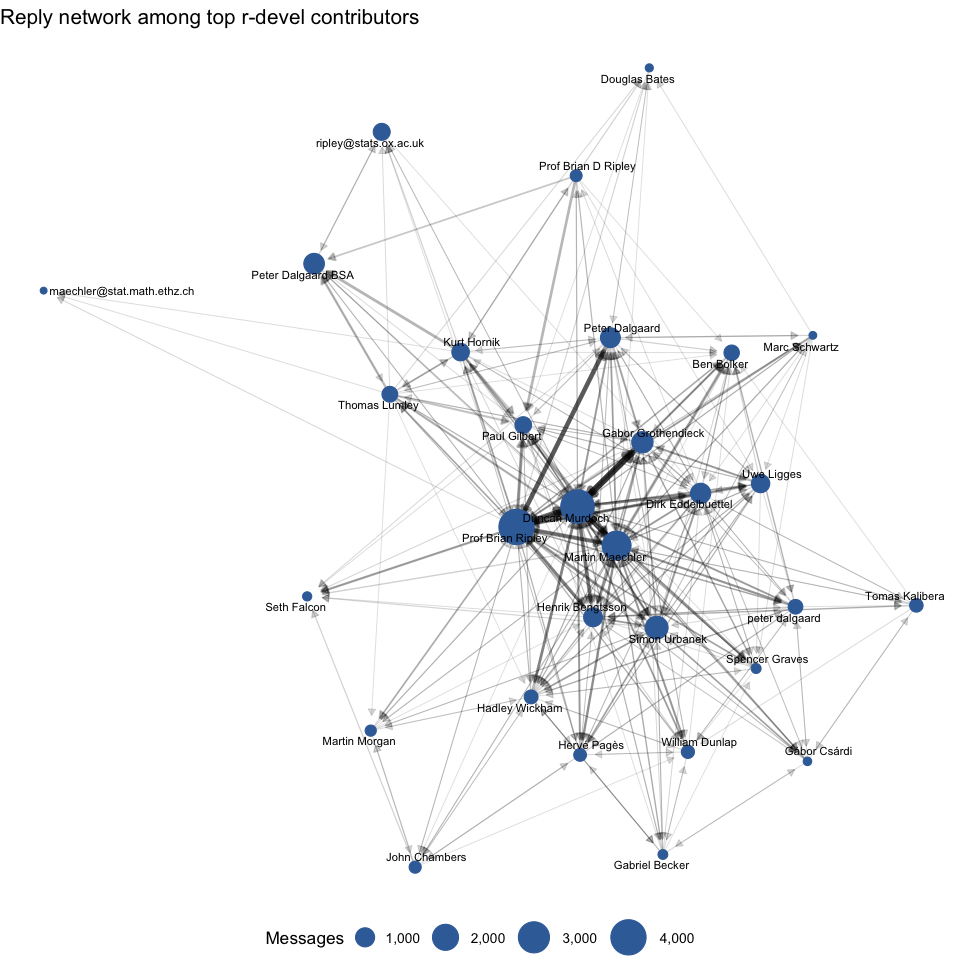
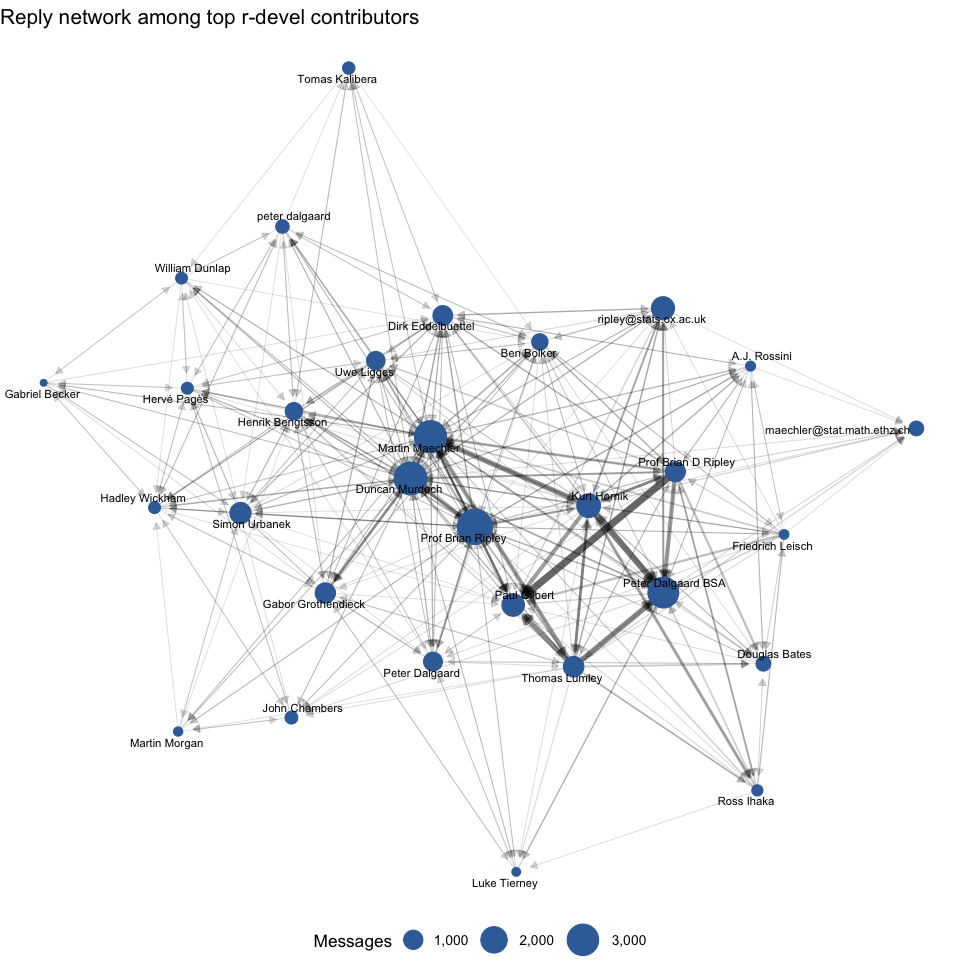
refactor: slim down README, add reply network, update demo analysis
- Remove r-devel count and top 10 contributors table from README
- Bump demo analysis link above Data overview for quicker discovery
- Add reply network graph to README
- Update demo-analysis.qmd to use rml.R convenience functions
- Add direct Parquet access section to demo analysis
- Remove unused timeline image from README

diff --git a/README.md b/README.md
@@ -43,22 +43,6 @@ contribs <- rml_read_contributors()
 head(contribs[order(-contribs$message_count), ], 10)
 ```
 
-The `r-devel` list has **69,483** messages. Top 10 contributors across
-all lists:
-
-| Name               | Messages | Lists |
-|:-------------------|:---------|------:|
-| Brian Ripley       | 21,042   |    10 |
-| Duncan Murdoch     | 13,418   |    13 |
-| Peter Dalgaard     | 13,311   |    10 |
-| David Winsemius    | 11,757   |     7 |
-| Gabor Grothendieck | 9,502    |    10 |
-| Uwe Ligges         | 9,076    |    13 |
-| Ben Bolker         | 7,526    |     8 |
-| Martin Maechler    | 7,421    |    19 |
-| Bert Gunter        | 6,719    |     9 |
-| Dirk Eddelbuettel  | 6,510    |    13 |
-
 ### Python
 
 Requires [`polars`](https://pola.rs/). Download the helper script:
@@ -115,6 +99,9 @@ r_devel = pl.read_parquet("data/messages/r-devel.parquet")
 all_msgs = pl.read_parquet("data/messages/*.parquet")
 ```
 
+For more in-depth analysis examples (message volume trends, top
+contributors), see the [demo analysis](analysis/demo-analysis.md).
+
 ## Data overview
 
 **468,230** messages across **31** mailing lists
@@ -153,9 +140,20 @@ all_msgs = pl.read_parquet("data/messages/*.parquet")
 | r-sig-dcm            | 67       | 17      | Jul 2010      | Sep 2024     |
 | r-sig-networks       | 27       | 21      | Jul 2008      | May 2019     |
 
-For more in-depth analysis examples (message volume trends, reply
-networks, top contributors), see the [demo
-analysis](analysis/demo-analysis.md).
+## Reply network on r-devel
+
+The `in_reply_to` field links each message to its parent, making it
+straightforward to build a “who replies to whom” network.
+
+<div id="fig-reply-network">
+
+<img src="README_files/figure-commonmark/fig-reply-network-1.png"
+id="fig-reply-network"
+data-fig-alt="Network graph showing reply relationships between top r-devel contributors" />
+
+Figure 1
+
+</div>
 
 ## Data dictionary
 
